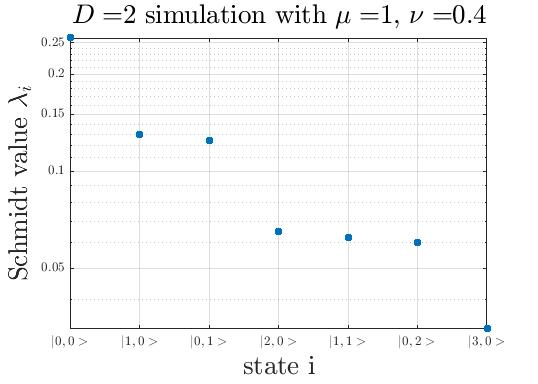
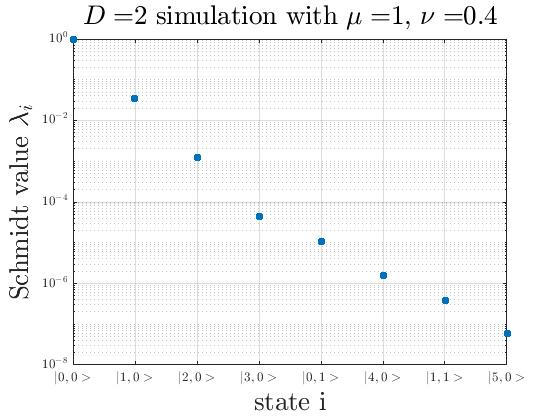
some updated schmidt spectra

diff --git a/Entanglement_truncation/Matlab/symplectic_decomposition.m b/Entanglement_truncation/Matlab/symplectic_decomposition.m
@@ -22,22 +22,27 @@ XP = (X*P);
 PX = (P*X);
 [F, Nu] = eig((XP)^1/2);
 [E, Mu] = eig((PX)^1/2);
+% sort symplectic eigenvalues such that they descend
+Nu = diag(Nu);
+[Nu, sortIdx] = sort(Nu, 'descend');
+E = E(:,sortIdx);
+F = F(:,sortIdx);
 
 % according to eq. (3.22) in thesis Quinten, the eigenvectors should be
 % orthonormalized according to
 E = orthonormalization(E, X);
 F = -orthonormalization(F, P);
-S = [[zeros(D),E*Nu^(1/2)];[F*Nu^(1/2),zeros(D)]];
+S = [[zeros(D),E*diag(Nu)^(1/2)];[F*diag(Nu)^(1/2),zeros(D)]];
 
 % quantum information concepts
-Nu = diag(Nu);
+
 arr = 1/2*ones([D,1]);
 entropy = sum((Nu+arr).*log(Nu+arr) - (Nu-arr).*log(Nu-arr));
 disp(Nu);
 
 % Schmidt values through Tayloring RDM
 nmax = 5;
-Epsilon = diag(log((Nu+1/2)/(Nu-1/2)));
+Epsilon = log(Nu+1/2)-log(Nu-1/2);
 xi = exp(-Epsilon);
 % xi = e^-eppsilon and schmidt values are (1-xi_1)...(1-xi_D)xi_1^n_1
 schmidts = 0;

diff --git a/Entanglement_truncation/Matlab/entanglement_spectrum.m b/Entanglement_truncation/Matlab/entanglement_spectrum.m
@@ -43,7 +43,7 @@ end
 [schmidts, sortIdx] = sort(schmidts, 'descend');
 states = states(sortIdx);
 
-schmidt_max = 5;
+schmidt_max = 8;
 schmidt_nmbr = linspace(1,schmidt_max,schmidt_max);
 
 ticks = {};

diff --git a/Entanglement_truncation/Matlab/sympl_plot.m b/Entanglement_truncation/Matlab/sympl_plot.m
@@ -2,8 +2,8 @@ clear
 clc
 
 mu = 1;
-nu = 0.4;
-D = 2;
+nu = 0.5;
+D = 5;
 
 [Nu, S, Epsilon, xi, entropy] = symplectic_decomposition(D, mu, nu);
 Number = linspace(1,D,D);
